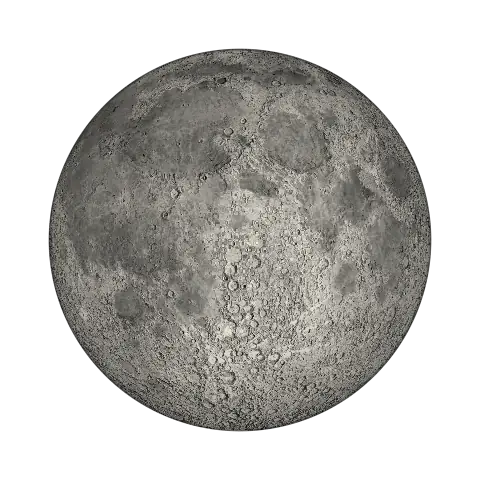
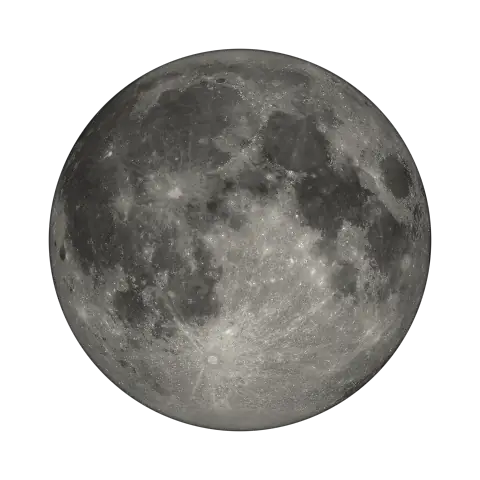
Carte lunaire de la NASA (CGI Moon Kit) à la place de moon.jpg
moon.jpg (droits incertains) est remplacée par lroc_color_poles_2k du NASA
Scientific Visualization Studio (2048×1024, 364 Ko), crédit dans le pied de page.
Image fixe, icônes et image de partage régénérées ; coefficient d'albédo ajusté
(1,18 → 1,08) pour la luminosité de la nouvelle carte.

Corrige aussi la Lune 3D qui restait sur la surface procédurale quand la boucle
d'animation était à l'arrêt (prefers-reduced-motion) : la texture chargée n'était
jamais dessinée.

diff --git a/site/js/moon3d.js b/site/js/moon3d.js
@@ -39,7 +39,7 @@ const FS = [
   " float ct=cos(uTilt);float st=sin(uTilt);vec3 q=vec3(n.x,ct*n.y-st*n.z,st*n.y+ct*n.z);",
   " float cy=cos(uRot);float sy=sin(uRot);vec3 p=vec3(cy*q.x+sy*q.z,q.y,-sy*q.x+cy*q.z);",
   " float alb;",
-  " if(uHasTex>0.5){float lon=atan(p.x,p.z);float lat=asin(clamp(p.y,-1.0,1.0));alb=texture2D(uTex,vec2(0.5+lon/6.2831853,0.5-lat/3.1415927)).r*1.18;}",
+  " if(uHasTex>0.5){float lon=atan(p.x,p.z);float lat=asin(clamp(p.y,-1.0,1.0));alb=texture2D(uTex,vec2(0.5+lon/6.2831853,0.5-lat/3.1415927)).r*1.08;}",
   " else{float maria=smoothstep(0.47,0.63,fbm(p*1.5+vec3(2.0,5.0,1.0)));alb=0.74-0.32*maria+0.20*(fbm(p*8.0)-0.5)+0.10*craters(p*5.0)+0.06*craters(p*13.0);}",
   " alb=clamp(alb,0.05,1.0);",
   " float ndl=dot(n,sun);",
@@ -106,6 +106,8 @@ export function createMoon3D(canvas, opts = {}) {
         gl.texImage2D(gl.TEXTURE_2D, 0, gl.RGB, gl.RGB, gl.UNSIGNED_BYTE, img);
         state.hasTex = 1;
       } catch (e) { state.hasTex = 0; }
+      // Redessiner avec la texture, même si la boucle est à l'arrêt (prefers-reduced-motion, Lune immobile).
+      schedule(); if (!state.raf) draw();
       requestAnimationFrame(signalReady);
     };
     img.onerror = signalReady; // surface procédurale

diff --git a/site/index.html b/site/index.html
@@ -407,6 +407,8 @@
             <span data-i18n="footer.astropy">Astropy — éphémérides du code Python</span><svg class="icon footer-arrow" aria-hidden="true"><use href="#i-external"/></svg></a></li>
           <li><span class="footer-ref" data-i18n="footer.meeus">Jean Meeus, Astronomical Algorithms — calcul en ligne</span></li>
           <li><span class="footer-ref">TimeAndDate · MoonCalc · StarDate</span></li>
+          <li><a href="https://svs.gsfc.nasa.gov/4720/">
+            <span data-i18n="footer.moonmap">Carte lunaire : NASA's Scientific Visualization Studio</span><svg class="icon footer-arrow" aria-hidden="true"><use href="#i-external"/></svg></a></li>
           <li><a href="https://unsplash.com/photos/a0TJ3hy-UD8">
             <span data-i18n="footer.photo">Photo du ciel : Phil Botha / Unsplash</span><svg class="icon footer-arrow" aria-hidden="true"><use href="#i-external"/></svg></a></li>
         </ul>

diff --git a/site/js/translations.js b/site/js/translations.js
@@ -122,6 +122,7 @@ export const translations = {
     "footer.meeus": "Jean Meeus, Astronomical Algorithms — calcul en ligne",
     "footer.privacy": "Tous les calculs sont faits dans votre navigateur.",
     "footer.photo": "Photo du ciel : Phil Botha / Unsplash",
+    "footer.moonmap": "Carte lunaire : NASA's Scientific Visualization Studio",
     "footer.top": "Retour en haut",
   },
 
@@ -243,6 +244,7 @@ export const translations = {
     "footer.meeus": "Jean Meeus, Astronomical Algorithms — online calculation",
     "footer.privacy": "All calculations run in your browser.",
     "footer.photo": "Sky photo: Phil Botha / Unsplash",
+    "footer.moonmap": "Moon map: NASA's Scientific Visualization Studio",
     "footer.top": "Back to top",
   },
 };

diff --git a/tools/make_assets.py b/tools/make_assets.py
@@ -46,7 +46,7 @@ def render_moon(size, tilt=0.08):
     lat = np.arcsin(np.clip(py, -1, 1))
     u = ((0.5 + lon / (2 * np.pi)) * tw).astype(int) % tw
     v = np.clip(((0.5 - lat / np.pi) * th).astype(int), 0, th - 1)
-    alb = np.clip(tex[v, u] * 1.18, 0.05, 1)
+    alb = np.clip(tex[v, u] * 1.08, 0.05, 1)
     light = smoothstep(-0.03, 0.22, nz) * (0.62 + 0.38 * nz)
     shade = alb * light * (0.85 + 0.15 * nz)
     px_size = 2 / size

diff --git a/README.md b/README.md
@@ -54,5 +54,6 @@ Le dossier `site/` se publie tel quel :
 
 ## Crédits
 
-La licence de `moon.jpg` n'est pas confirmée. À remplacer par la carte 2K du NASA CGI Moon Kit
-(`lroc_color_poles_2k`, NASA's Scientific Visualization Studio), puis relancer `tools/make_assets.py`.
+- Carte lunaire (`site/assets/moon.jpg`) : CGI Moon Kit, `lroc_color_poles_2k`, données de la sonde LRO —
+  NASA's Scientific Visualization Studio (https://svs.gsfc.nasa.gov/4720/). Crédit affiché dans le pied de page.
+- Photo du ciel : Phil Botha / Unsplash (https://unsplash.com/photos/a0TJ3hy-UD8).
